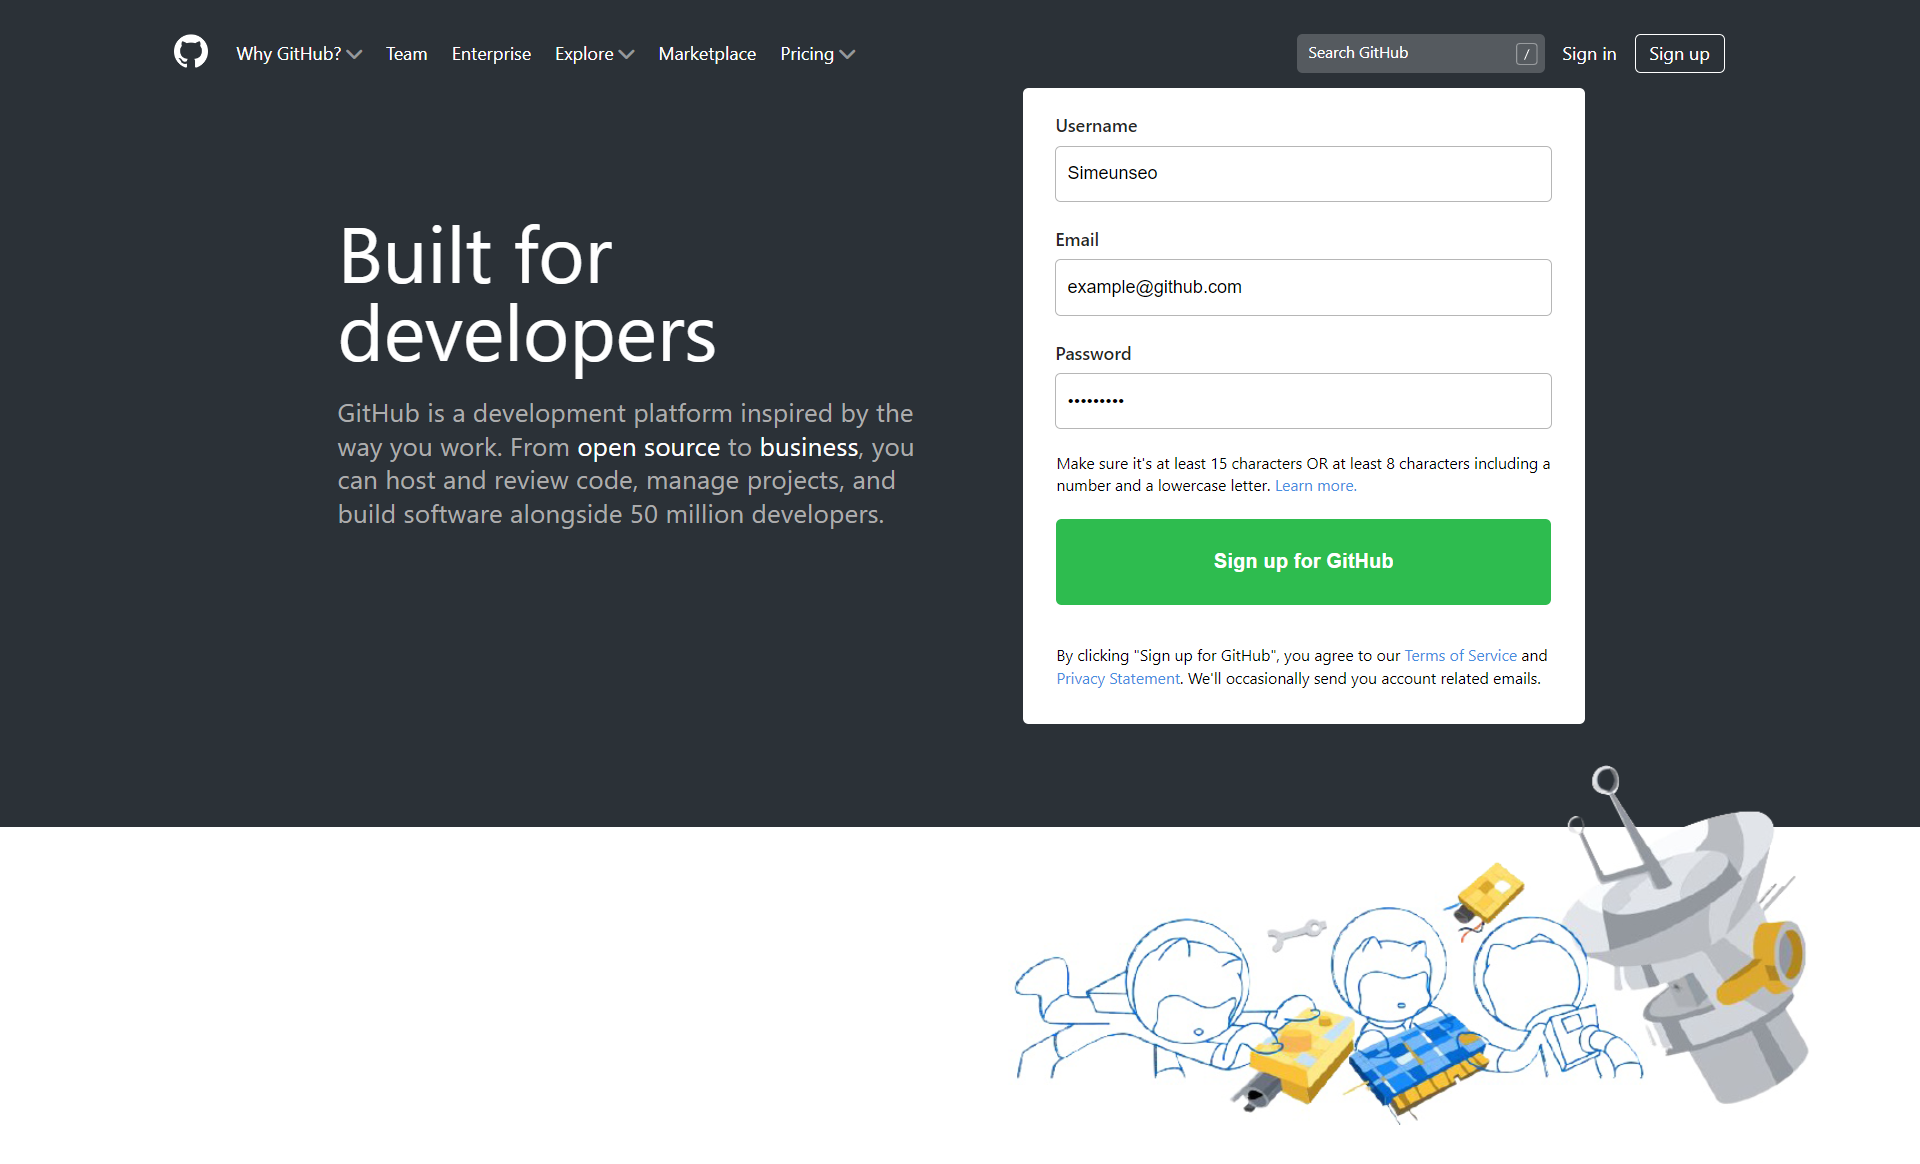
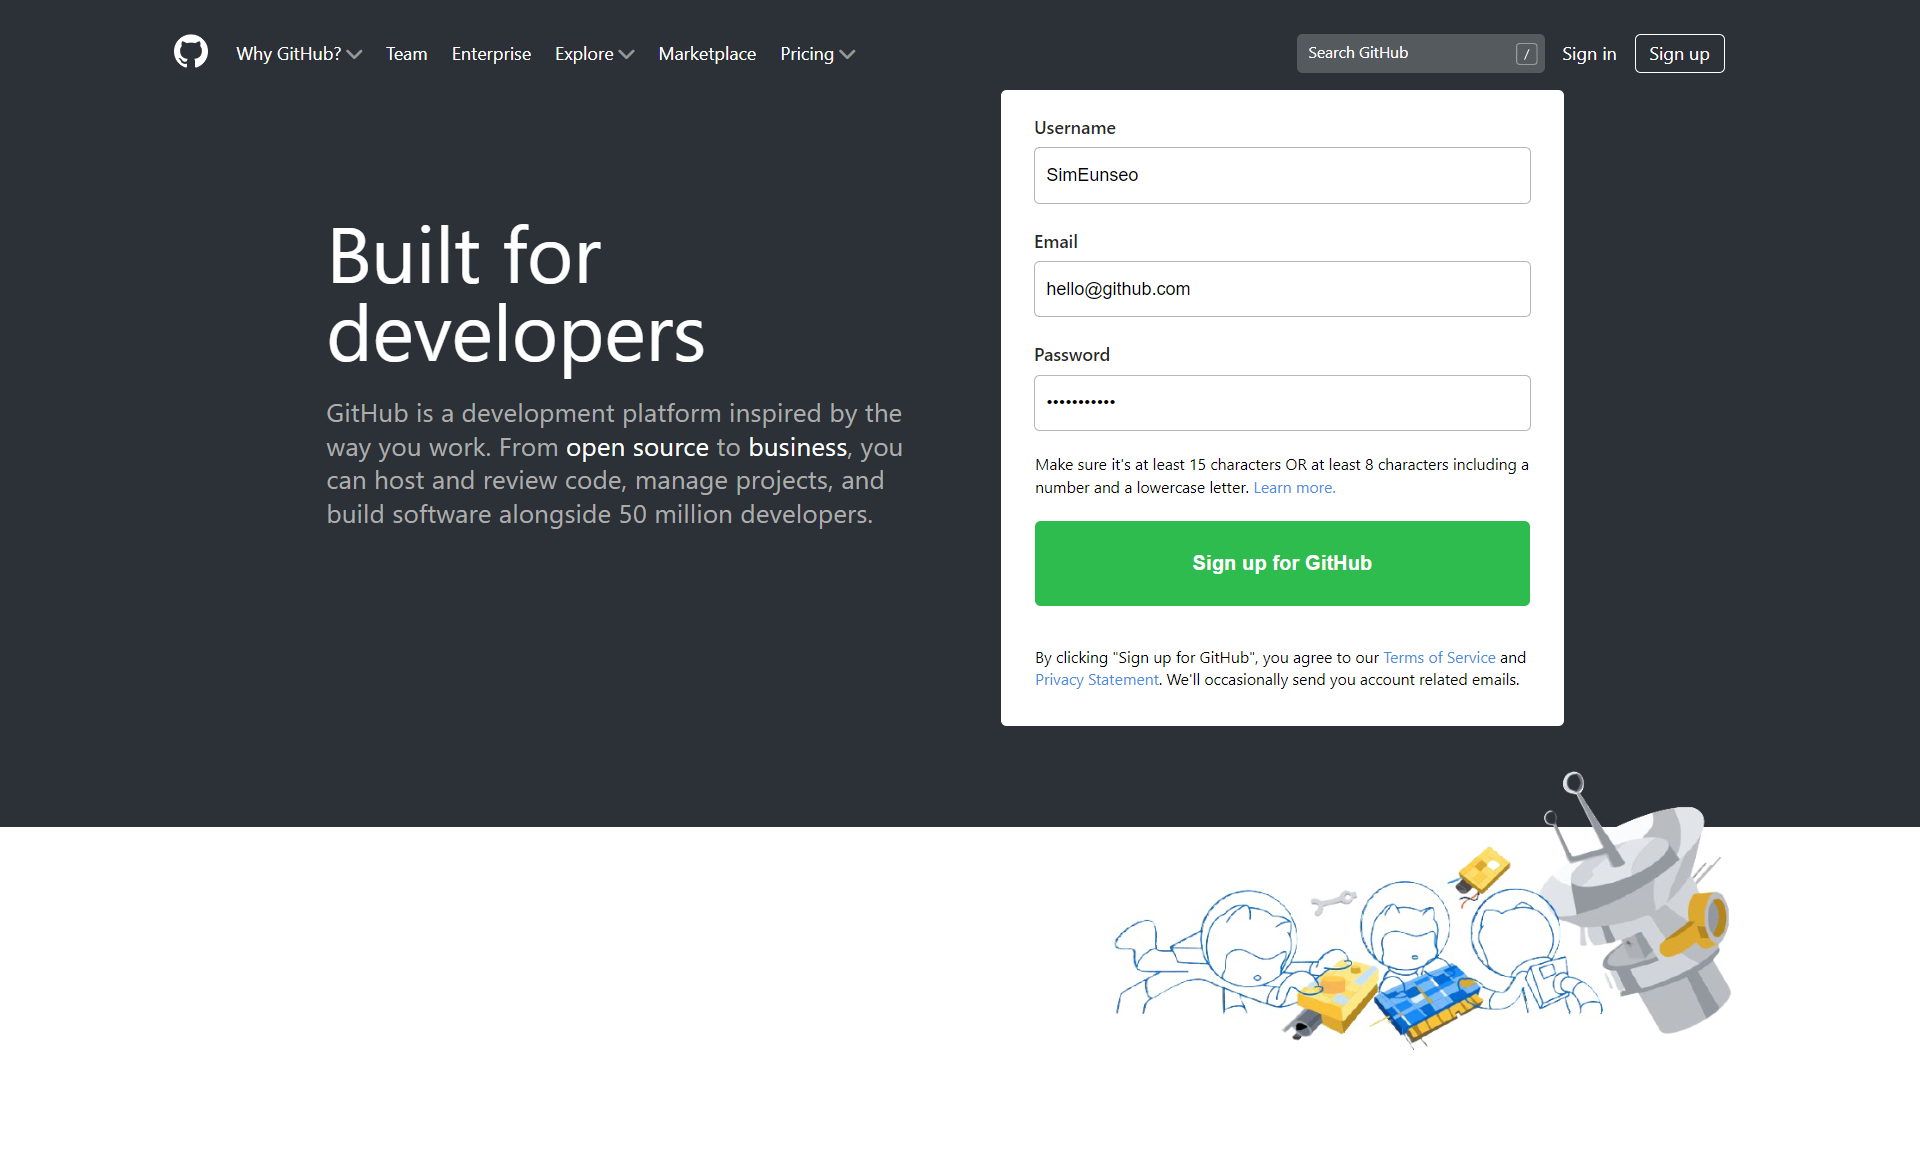
깃허브 페이지 과제 최종 커밋

diff --git a/깃허브 페이지 과제/github.html b/깃허브 페이지 과제/github.html
@@ -3,7 +3,10 @@
   <head>
     <meta charset="UTF-8" />
     <meta http-equiv="X-UA-Compatible" content="IE=edge" />
-    <meta name="viewport" content="width=device-width, initial-scale=1.0" />
+    <meta
+      name="viewport"
+      content="width=device-width, initial-scale=0.9, maximum-scale=0.9, user-scalable=0"
+    />
     <title>GitHub: Where the world builds software · GitHub</title>
     <link
       rel="shortcut icon"
@@ -103,8 +106,8 @@
     </header>
     <section class="contents">
       <article>
-        <h1>Built for developers</h1>
-        <p>
+        <h1 style="width: 420px">Built for developers</h1>
+        <p style="width: 550px">
           GitHub is a development platform inspired by the way you work. From
           <span style="color: white">open source</span> to
           <span style="color: white">business</span>, you can host and review
@@ -113,7 +116,10 @@
         </p>
       </article>
     </section>
-    <section class="sign-up">
+    <section
+      class="sign-up"
+      style="position: absolute; left: 890px; top: 280px"
+    >
       <div class="form-username">
         <label for="username" class="form-label">Username</label>
         <input type="text" id="username" class="form-input" name="username" />

diff --git a/깃허브 페이지 과제/github.css b/깃허브 페이지 과제/github.css
@@ -279,7 +279,7 @@ button {
 .contents {
   width: 53%;
   height: 700px;
-  padding: 188px 80px 0px 300px;
+  padding: 188px 80px 0px 290px;
   display: inline-block;
 }
 
@@ -363,10 +363,10 @@ button {
 }
 
 .picture img {
-  width: 45%;
-  margin-left: 850px;
+  width: 35%;
+  margin-left: 950px;
   position: absolute;
-  margin-top: -20px;
+  margin-top: -15px;
 }
 
 .menu-right button span:hover {
